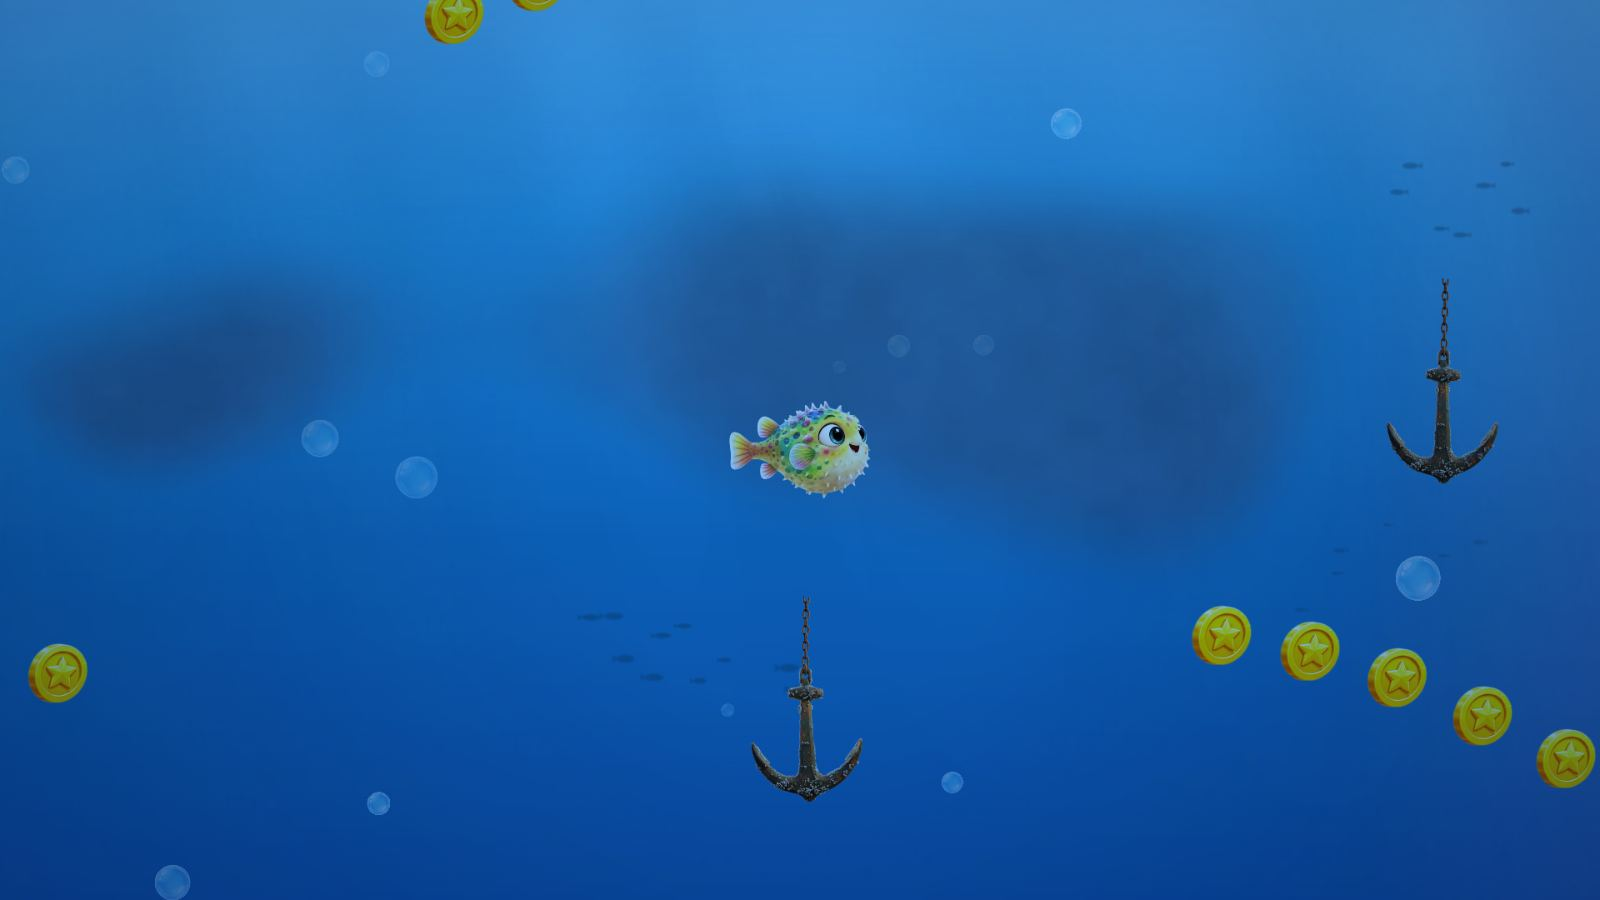
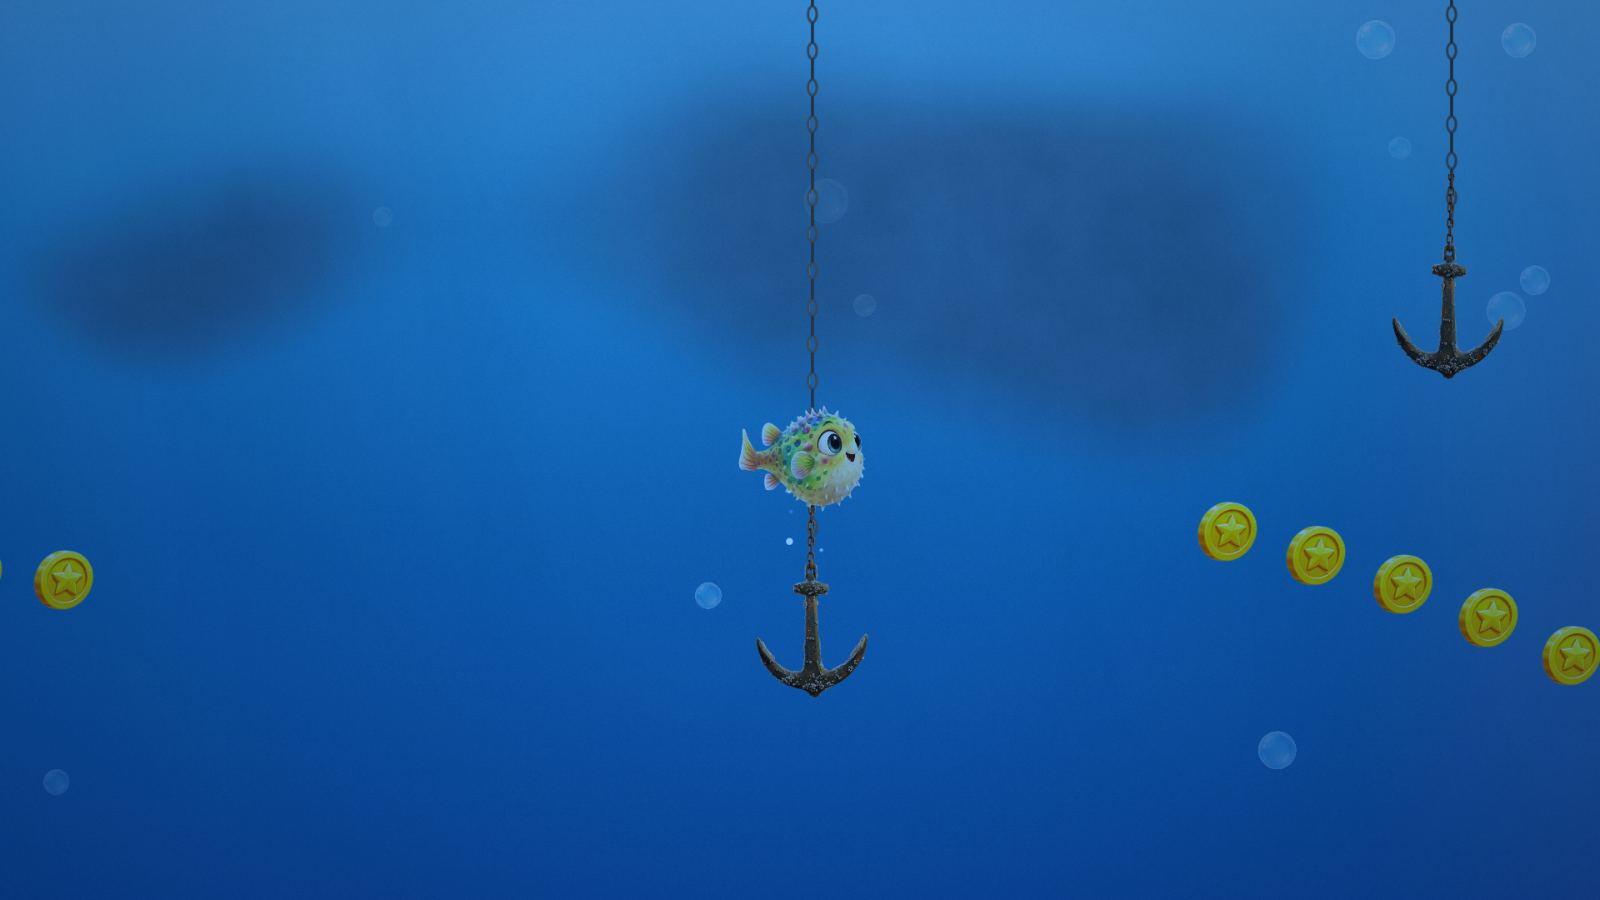
Midground bands off (creases, cut-offs, seams), dither against colour banding in open water

diff --git a/game/fx/WaterLight.js b/game/fx/WaterLight.js
@@ -23,7 +23,8 @@ export const WATER_LIGHT = {
     gradeSaturation: 0.2, // extra saturation in full sunlight
     gradeAbsorb: 0.32,    // how much red is lost at full depth
     gradeExposure: 0.22,  // brightness lift in full sunlight (style guide: shallow water is bright)
-    fadeTo: 2600          // depth (px below the surface) where the sunlight has faded away
+    fadeTo: 2600,         // depth (px below the surface) where the sunlight has faded away
+    dither: 0.035         // strength of the fine noise that breaks up colour banding in smooth water (0 = off)
 };
 
 const TEX = 256;
@@ -66,6 +67,18 @@ export default class WaterLight {
                 ts.speed = { x: sx, y: sy };
                 this.caustics.push(ts);
             }
+        }
+
+        // Dither: a fine static noise over the scene, a few grey levels either way, so the
+        // smooth water gradients never show 8-bit colour bands (spec 10.11b: no lines).
+        this.dither = null;
+        if (WATER_LIGHT.dither > 0) {
+            if (!scene.textures.exists('wl_dither')) {
+                const c = scene.textures.createCanvas('wl_dither', 128, 128), dctx = c.getContext(), img = dctx.createImageData(128, 128);
+                for (let i = 0; i < 128 * 128; i++) { const v = Math.random() * 255; img.data[i * 4] = img.data[i * 4 + 1] = img.data[i * 4 + 2] = v; img.data[i * 4 + 3] = 255; }
+                dctx.putImageData(img, 0, 0); c.refresh();
+            }
+            this.dither = scene.add.tileSprite(0, 0, W, H, 'wl_dither').setOrigin(0).setScrollFactor(0).setDepth(39.5).setAlpha(WATER_LIGHT.dither);
         }
 
         // Colour grade on the main camera (WebGL post effect; skipped if unavailable).
@@ -123,6 +136,7 @@ export default class WaterLight {
 
     destroy() {
         for (const o of [...this.shafts, ...this.caustics]) o.destroy();
+        this.dither?.destroy();
         if (this.grade) this.scene.cameras.main.postFX?.remove(this.grade);
     }
 }

diff --git a/game/level/backLayersTable.js b/game/level/backLayersTable.js
@@ -24,8 +24,10 @@ export const BACK_LAYERS = [
 //   rise     ground above the seabed (px)       items   decor per 1024-px chunk
 //   size     decor size (share of chunk height) depth   Phaser depth (shafts are at -12)
 export const MID_LAYERS = [
-    { id: 'mid', scroll: 0.6, vscroll: 0.7, fog: 0.58, height: 0.42, rise: 260, items: 9, size: 0.42, depth: -15, strength: 1 },
-    { id: 'backplay', scroll: 0.82, vscroll: 0.88, fog: 0.36, height: 0.4, rise: 60, items: 7, size: 0.55, depth: -10, strength: 1 }
+    // Off (strength 0): the stacked bands showed creases, cut-offs and seams and felt like a
+    // layer cake (user, 2026-11-14). Being replaced by many individual depths (spec 10.10b).
+    { id: 'mid', scroll: 0.6, vscroll: 0.7, fog: 0.58, height: 0.42, rise: 260, items: 9, size: 0.42, depth: -15, strength: 0 },
+    { id: 'backplay', scroll: 0.82, vscroll: 0.88, fog: 0.36, height: 0.4, rise: 60, items: 7, size: 0.55, depth: -10, strength: 0 }
 ];
 
 // Silhouette kinds (big soft shapes only — the background has no micro detail, spec 10.10b).
